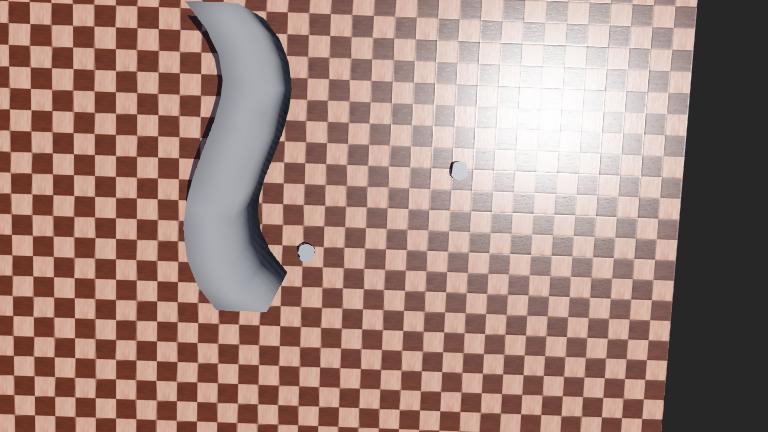
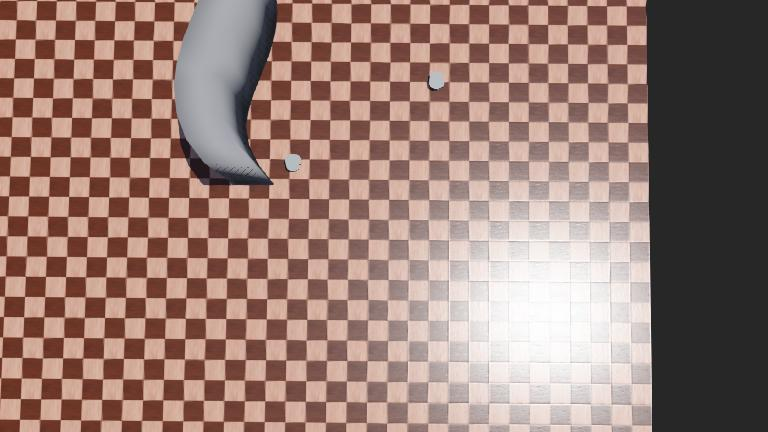
follow_the_wall - Proportional controller

diff --git a/src/teleop_lidar.cpp b/src/teleop_lidar.cpp
@@ -18,7 +18,7 @@
 #define ROBOT_2_NAME "robot2"
 
 #define LIDAR_RESOLUTION 60
-#define LIDAR_MIN_ANGLE -M_PI
+#define LIDAR_MIN_ANGLE - M_PI
 #define LIDAR_SERVICE "/lidar/enable"
 #define LIDAR_TOPIC "/lidar/laser_scan"
 
@@ -57,8 +57,8 @@ private:
   float v_max, w_max;
   float v, w, theta;
 
-  int desired_angle;
-  int angle_correction;
+  float desired_angle;
+  float angle_correction;
 
   float b; // Distance between the two wheels(m)
   int current_state; // 0: Too close to wall, 1: Too far from wall, 2: Normal
@@ -82,8 +82,8 @@ public:
     w = 0;
 
     theta = 0;
-    desired_angle = 90;
-    angle_correction = 30;
+    desired_angle = M_PI/2;
+    angle_correction = 10;
 
     current_state = 0;
     leftWheelPos_Client = n.serviceClient<webots_ros::set_float>('/' + name + LEFT_WHEEL_POS_SERVICE);
@@ -103,11 +103,13 @@ public:
       //Too close to wall
       current_state = 1;
       theta = desired_angle - angle_correction;
+      theta = desired_angle;
     }
     else if (min_angle_distance[1] > target_distance + tolerance){
       //Too far from wall
       current_state = 2;
       theta = desired_angle + angle_correction;
+      theta = desired_angle;
     }
     else{
       //Correct distance from wall
@@ -184,7 +186,7 @@ public:
 
     // Angle of nearest object in radians
     min_angle_distance[0] = min_index * 2 * M_PI / LIDAR_RESOLUTION;
-    std::cout << "Nearest obstacle angle: " << min_angle_distance[0] * 180 / M_PI << std::endl;
+    std::cout << "Nearest obstacle angle: " << min_angle_distance[0] * 180.0 / M_PI << std::endl;
 
     // Distance to nearest object
     min_angle_distance[1] = min_distance;
@@ -199,28 +201,30 @@ public:
   }
 
   // PID controller for angular velocity
-  float Kp = 0.002;  // Proportional gain, start small
-  float Ki = 0.000005; // Integral gain, for accumulated error correction
-  float Kd = 0.0001;   // Derivative gain, for rate of change dampening
+  float Kp_w = 1.0/(M_PI/2);  // Proportional gain, start small
+  //float Ki_w = 0.000005; // integral_w gain, for accumulated error_w correction
+  float Ki_w = 0;
+  //float Kd_w = 0.0001;   // derivative_w gain, for rate of change dampening
+  float Kd_w = 0;
 
-  float error = 0;
-  float previous_error = 0;
-  float integral = 0;
-  float derivative = 0;
+  float error_w = 0;
+  float previous_error_w = 0;
+  float integral_w = 0;
+  float derivative_w = 0;
   
   void calculateAngularVelocity() {
-    error = theta - min_angle_distance[0];
+    error_w = theta - min_angle_distance[0];
 
-    // Wrap the error to keep it within [-PI, PI]
-    if (error < -M_PI) error += 2 * M_PI;
-    else if (error > M_PI) error -= 2 * M_PI;
+    // Wrap the error_w to keep it within [-PI, PI]
+    //if (error_w < - M_PI) error_w += 2 * M_PI;
+    //else if (error_w > M_PI) error_w -= 2 * M_PI;
 
-    // Calculate the integral and derivative components
-    integral += error;  // Accumulate the integral of the error
-    derivative = error - previous_error;
+    // Calculate the integral_w and derivative_w components
+    integral_w += error_w;  // Accumulate the integral_w of the error_w
+    derivative_w = error_w - previous_error_w;
 
-    // Update previous error for the next cycle
-    previous_error = error;
+    // Update previous error_w for the next cycle
+    previous_error_w = error_w;
 
     switch (current_state)
     {
@@ -228,14 +232,9 @@ public:
       w = 0;
       break;
     
-    case 1:
-      // PID formula for angular velocity
-      w = ((Kp * error) + (Ki * integral) + (Kd * derivative)) * (-1); // Turn right
-      break;
-
     default:
       // PID formula for angular velocity
-      w = (Kp * error) + (Ki * integral) + (Kd * derivative);
+      w = (Kp_w * error_w) + (Ki_w * integral_w) + (Kd_w * derivative_w); // Turn left
       break;
     }
 
@@ -244,12 +243,39 @@ public:
     // Clamp the angular velocity to prevent it from becoming too large
     w = clamp(w, -w_max, w_max);
 
-    // Debug output for tracking PID components
-    ROS_INFO("Error: %.4f | Integral: %.4f | Derivative: %.4f | Angular Velocity (w): %.4f", error, integral, derivative, w);
+    // Debug output for tracKing PID components
+    std::cout << "theta: " << theta * 180.0 /M_PI << "min_angle_distance " << min_angle_distance[0] * 180.0 / M_PI << std::endl;
+    ROS_INFO("error_w: %.4f | integral_w: %.4f | derivative_w: %.4f | Angular Velocity (w): %.4f", error_w * 180.0 / M_PI, integral_w, derivative_w, w);
   }
   
+  float error_v = 0;
+  float in_target_v = 2.0;
+
+  // PID controller for linear velocity
+  float Kp_v = 0;  // Proportional gain, start small
+
+
   void calculateLinearVelocity(){
-    v = 1.0;
+    /*error_v = std::abs(target_distance - min_angle_distance[1]);
+
+    if (error_v < 0.1){
+      Kp_v = 1.0;
+    }
+    else{
+      Kp_v = error_v*10;
+    }
+
+
+    v = in_target_v/Kp_v;
+
+    // Clamp the linear velocity to prevent it from becoming too large
+    v = clamp(v, -v_max, v_max);
+
+    // Debug output for tracking PID components
+    ROS_INFO("error_v: %.4f | Linear Velocity (v): %.4f", error_v, v);*/
+
+    // Constant linear velocity
+    v = 0.5;
   }
 };
 
@@ -281,25 +307,25 @@ int main(int argc, char **argv) {
   while (ros::ok()) {
     ros::spinOnce();
 
-    if(robot1.check_lidar()) {
-      //robot1.setVelocity(1.0, 0.0);
-      robot1.getLaserScan();
-      robot1.getClosestObstacle();
-      //std::cout << "Nearest obstacle angle: " << robot1.min_angle_distance[0] * 180 / M_PI << std::endl;
-      std::cout << "Nearest obstacle distance: " << robot1.min_angle_distance[1] << std::endl;
+    //if(robot1.check_lidar()) {
+    //robot1.setVelocity(1.0, 0.0);
+    robot1.getLaserScan();
+    robot1.getClosestObstacle();
+    //std::cout << "Nearest obstacle angle: " << robot1.min_angle_distance[0] * 180 / M_PI << std::endl;
+    std::cout << "Nearest obstacle distance: " << robot1.min_angle_distance[1] << std::endl;
 
-      robot1.updateStateMachine();
+    robot1.updateStateMachine();
 
-      robot1.calculateAngularVelocity();
-      robot1.calculateLinearVelocity();
+    robot1.calculateAngularVelocity();
+    robot1.calculateLinearVelocity();
 
-      // Set wheel velocity
-      if (robot1.setVelocity()) {
-          ROS_INFO("Velocity set successfully\n");
-      } else {
-          ROS_WARN("Failed to set velocity");
-      }
+    // Set wheel velocity
+    if (robot1.setVelocity()) {
+        ROS_INFO("Velocity set successfully\n");
+    } else {
+        ROS_WARN("Failed to set velocity");
     }
+    //}
   }
   return (0);
 }
